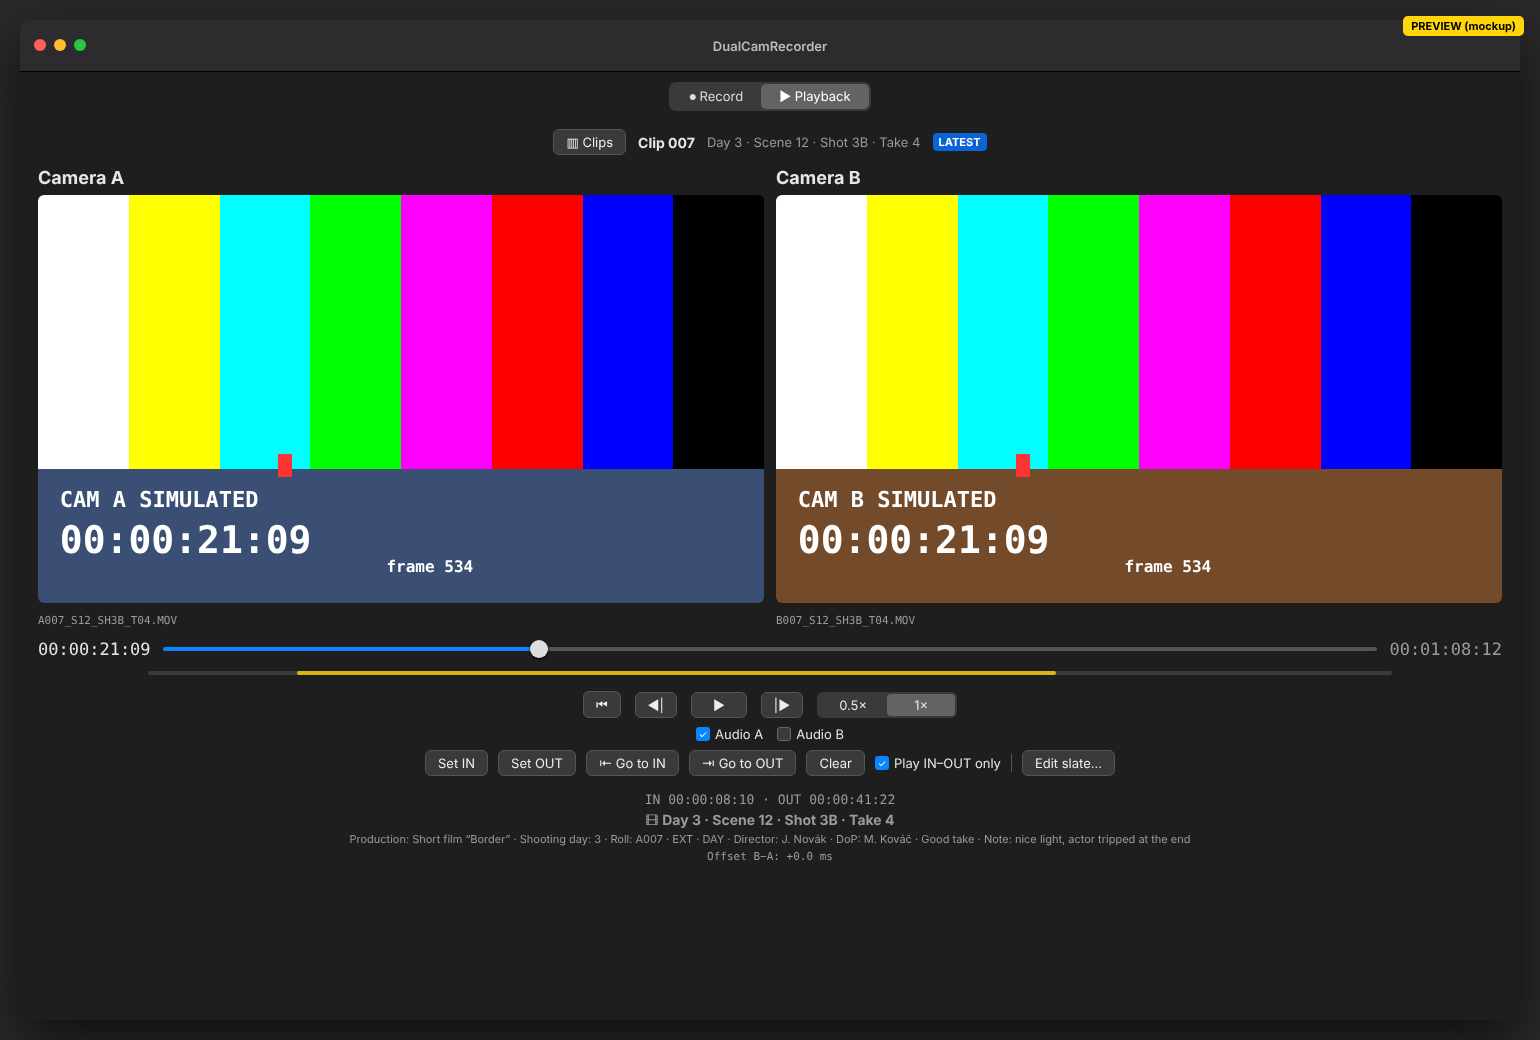
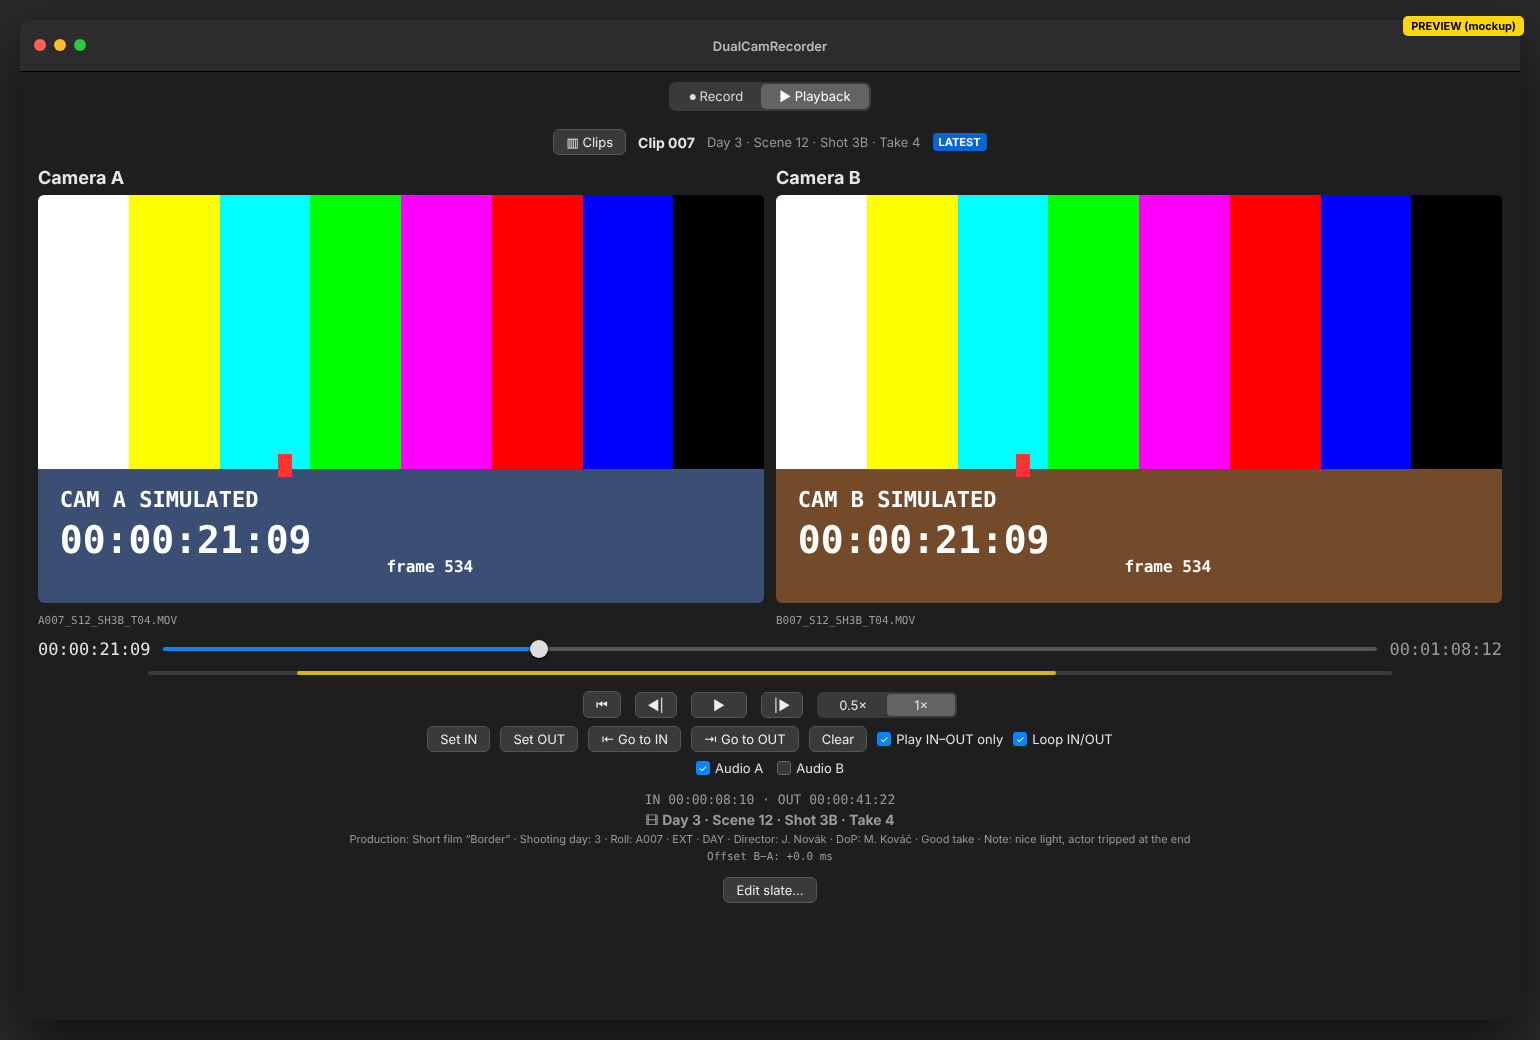
Add Loop IN/OUT and reorder playback controls
- New "Loop IN/OUT" toggle: at OUT (or the end of the clip when no OUT
  is set) both players restart together at IN (or the start)
- Order: transport, IN/OUT buttons with "Play IN-OUT only" and
  "Loop IN/OUT", audio A/B, info block, "Edit slate…" at the very bottom

Claude-Session: https://claude.ai/code/session_01SjxyfTkJQH7RKsrkA8EJQA

Changed region(s): [[0.2494, 0.6769, 0.7481, 0.7692], [0.4675, 0.8308, 0.5299, 0.8923]]

diff --git a/DualCamRecorder/Playback/SyncPlaybackController.swift b/DualCamRecorder/Playback/SyncPlaybackController.swift
@@ -33,6 +33,12 @@ final class SyncPlaybackController: ObservableObject {
     @Published private(set) var marks = TakeMarks()
     /// Play only between IN and OUT (start at IN, stop at OUT).
     @Published var limitToRange = true
+    /// Loop: at OUT (or the end of the clip) jump back to IN (or the start) and keep playing.
+    @Published var loopInOut = false {
+        didSet { if isPlaying && oldValue != loopInOut { play() } }
+    }
+    /// The IN–OUT range is used when "Play IN–OUT only" or "Loop IN/OUT" is on.
+    private var useRange: Bool { limitToRange || loopInOut }
     @Published private(set) var marksMessage: String?
     /// Slate of the loaded take (nil for takes recorded without one).
     @Published private(set) var slate: SlateInfo?
@@ -87,7 +93,9 @@ final class SyncPlaybackController: ObservableObject {
         if let item = itemA ?? itemB {
             endObserver = NotificationCenter.default.addObserver(forName: .AVPlayerItemDidPlayToEndTime, object: item,
                                                                  queue: .main) { [weak self] _ in
-                self?.isPlaying = false
+                guard let self else { return }
+                self.isPlaying = false
+                if self.loopInOut { self.play() }   // restarts at IN (or the start)
             }
         }
 
@@ -125,7 +133,7 @@ final class SyncPlaybackController: ObservableObject {
         let gen = generation
         var start = master.currentTime()
         let fdSec = frameDuration.seconds > 0 ? frameDuration.seconds : 0.04
-        if limitToRange && !marks.isEmpty {
+        if useRange && !marks.isEmpty {
             let lo = marks.inPoint ?? 0
             let hi = marks.outPoint ?? duration
             if start.seconds < lo - fdSec / 2 || start.seconds >= hi - fdSec / 2 {
@@ -138,7 +146,7 @@ final class SyncPlaybackController: ObservableObject {
         let rate = self.rate
         isPlaying = true
         removeBoundaryObserver()
-        if limitToRange, let out = marks.outPoint, out > start.seconds {
+        if useRange, let out = marks.outPoint, out > start.seconds {
             // Stop exactly at OUT.
             let outTime = frameTime(seconds: out)
             boundaryPlayer = master
@@ -172,6 +180,10 @@ final class SyncPlaybackController: ObservableObject {
         let hostStop = CMTimeAdd(CMClockGetTime(CMClockGetHostTimeClock()), CMTime(value: 5, timescale: 1000))
         for p in activePlayers { p.setRate(0, time: .invalid, atHostTime: hostStop) }
         isPlaying = false
+        if loopInOut {
+            play()   // current time is at OUT → play() restarts both players at IN
+            return
+        }
         seek(to: outTime)
     }
 

diff --git a/DualCamRecorder/Views/PlaybackView.swift b/DualCamRecorder/Views/PlaybackView.swift
@@ -262,17 +262,22 @@ struct PlaybackView: View {
             }
             rangeBar
 
-            // Buttons, one group under another.
+            // Buttons, one group under another; audio last.
             VStack(spacing: 8) {
                 transportButtons
-                audioButtons
                 markButtons
+                audioButtons
             }
             .padding(.top, 4)
             .disabled(player.take == nil)
 
             // Info under the buttons.
             infoBlock
+                .padding(.top, 6)
+
+            // Edit slate at the very bottom.
+            Button("Edit slate…") { editingSlate = true }
+                .disabled(player.take == nil)
                 .padding(.top, 6)
         }
         .frame(maxWidth: .infinity)
@@ -330,8 +335,8 @@ struct PlaybackView: View {
             Button("Clear") { player.clearMarks() }
                 .disabled(player.marks.isEmpty)
             Toggle("Play IN–OUT only", isOn: $player.limitToRange)
-            Divider().frame(height: 18)
-            Button("Edit slate…") { editingSlate = true }
+            Toggle("Loop IN/OUT", isOn: $player.loopInOut)
+                .help("Repeat IN → OUT continuously (without OUT: to the end of the clip)")
         }
     }
 

diff --git a/README.md b/README.md
@@ -67,7 +67,7 @@ Rozhranie aplikácie je **v angličtine** (Record / Playback / Slate …); tento
 - Spoločné **play/pause** (medzerník), **posuvník**, **krokovanie po snímkach** (← / →),
   **rýchlosť 0,5× / 1×**, výber zvuku A/B, zobrazenie rozdielu pozícií B−A.
 - **IN / OUT:** záber sa po načítaní nastaví na IN; pri zapnutom „Hrať len IN–OUT“ prehrávanie
-  štartuje na IN a zastaví presne na OUT (oba prehrávače). IN/OUT sa dá v prehrávaní upraviť
+  štartuje na IN a zastaví presne na OUT (oba prehrávače). **Loop IN/OUT** prehráva úsek IN → OUT dokola (bez OUT až do konca klipu). IN/OUT sa dá v prehrávaní upraviť
   (I / O na aktuálnej snímke), skočiť na IN/OUT alebo zrušiť – zmeny sa hneď uložia do
   `C###_MARKS.JSON`. Zábery so značkami majú v zozname žltú vlajku.
 - Synchronizácia cez `setRate(_:time:atHostTime:)` so spoločným časom hostiteľských hodín;
